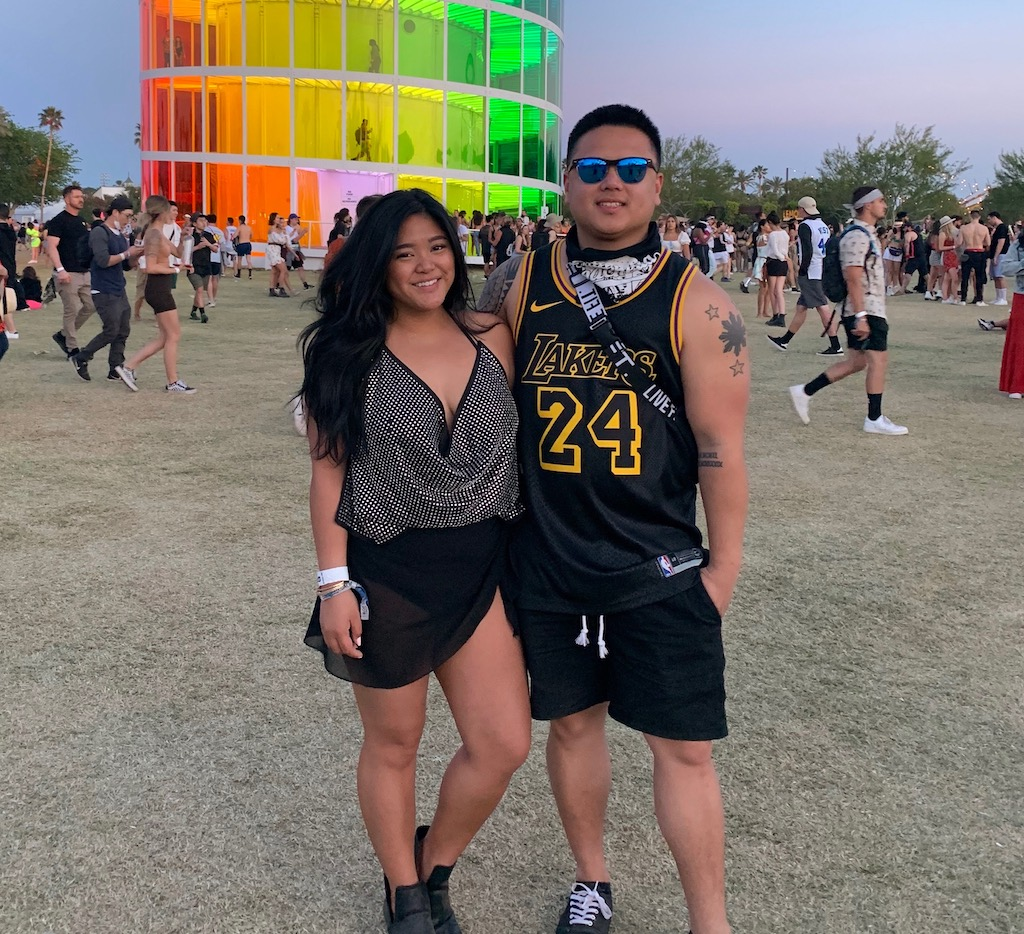
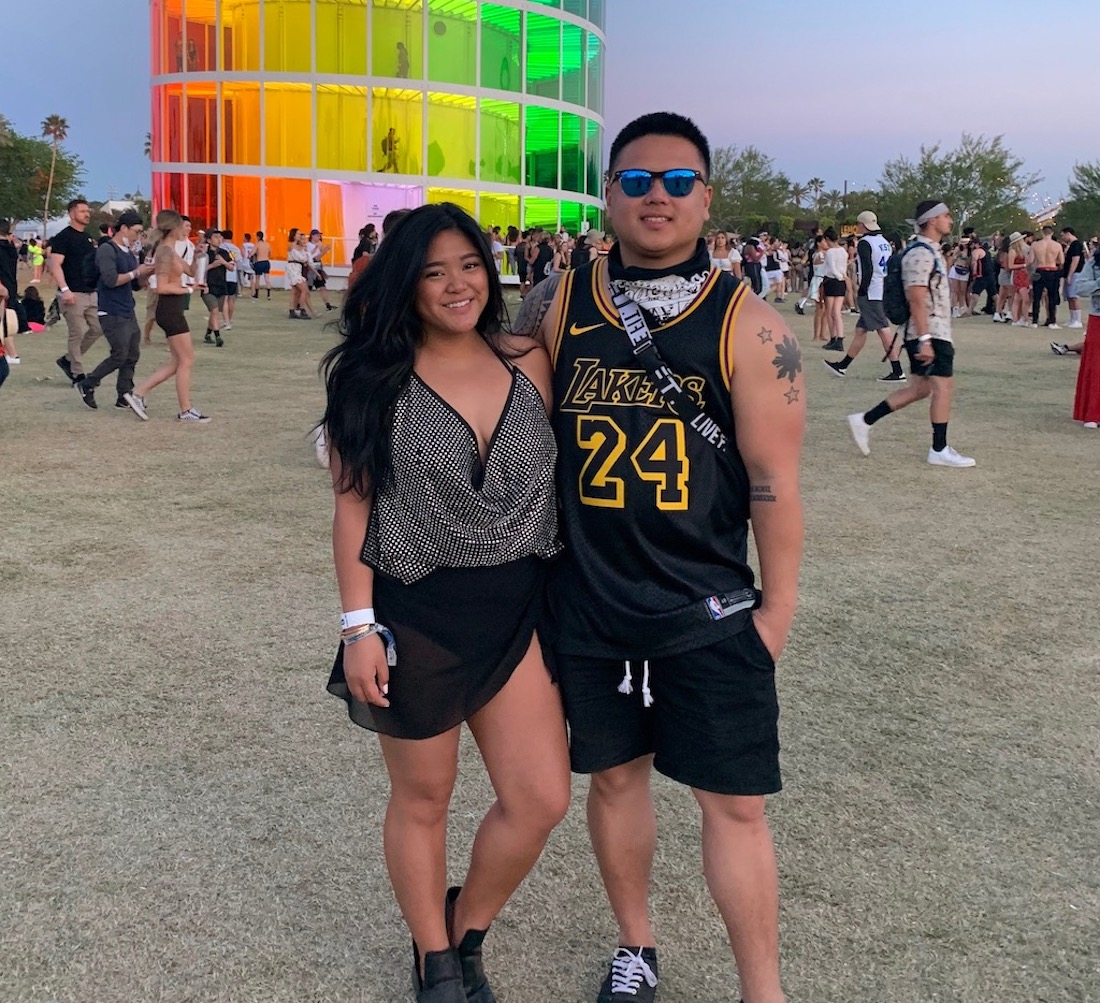
modified css to index.html and info.html

Changed region(s): [[0.3438, 0.3726, 0.5, 0.5899], [0.5312, 0.3726, 0.6562, 0.4347], [0.5625, 0.3105, 0.5938, 0.3415]]

diff --git a/info.html b/info.html
@@ -35,25 +35,24 @@
         </nav>
      </header>
     <main> 
-        <section class="container-fluid" id="details-info">
-            <div class="details-info-overlay"></div>
-            <div class="row">
-                <div class="col-md-6" id="details-left">
-                    <h2>Ceremony</h2>
-                    <p>Location: Saint Barnabus Church</p>
-                    <p>Starting Time: 12:00pm</p>
-                    <p>Address:</p>
-                    <iframe src="https://www.google.com/maps/embed?pb=!1m18!1m12!1m3!1d3314.2783013278104!2d-118.17885628384126!3d33.83093288066682!2m3!1f0!2f0!3f0!3m2!1i1024!2i768!4f13.1!3m3!1m2!1s0x80dd33a47e62fc93%3A0xdbdfed63e49f091c!2sSt.%20Barnabas%20Catholic%20Church!5e0!3m2!1sen!2sus!4v1579070690497!5m2!1sen!2sus" width="400" height="250" frameborder="0" style="border:0;" allowfullscreen=""></iframe>
-                </div>
-                <div class="col-md-6" id="details-right">
-                    <h2>Reception</h2>
-                    <p>Location: The Grand</p>
-                    <p>Starting Time: 6pm; End Time: 1am</p>
-                    <p>Address:</p>
-                    <iframe src="https://www.google.com/maps/embed?pb=!1m18!1m12!1m3!1d3315.3168005749235!2d-118.14949828384155!3d33.80413678067422!2m3!1f0!2f0!3f0!3m2!1i1024!2i768!4f13.1!3m3!1m2!1s0x80dd3187fe1d4d89%3A0x28bb151385838a33!2sThe%20Grand.%20Long%20Beach%20Events%20Center!5e0!3m2!1sen!2sus!4v1579071125621!5m2!1sen!2sus" width="400" height="250" frameborder="0" style="border:0;" allowfullscreen=""></iframe>
-                </div>
+        <div class="container-fluid" id="details-info">
+        </div>
+        <div class="row">
+            <div class="col-md-6" id="details-left">
+                <h2>Ceremony</h2>
+                <p>Location: Saint Barnabus Church</p>
+                <p>Starting Time: 12:00pm</p>
+                <p>Address:</p>
+                <iframe src="https://www.google.com/maps/embed?pb=!1m18!1m12!1m3!1d3314.2783013278104!2d-118.17885628384126!3d33.83093288066682!2m3!1f0!2f0!3f0!3m2!1i1024!2i768!4f13.1!3m3!1m2!1s0x80dd33a47e62fc93%3A0xdbdfed63e49f091c!2sSt.%20Barnabas%20Catholic%20Church!5e0!3m2!1sen!2sus!4v1579070690497!5m2!1sen!2sus" width="400" height="250" frameborder="0" style="border:0;" allowfullscreen=""></iframe>
             </div>
-        </section>
+            <div class="col-md-6" id="details-right">
+                <h2>Reception</h2>
+                <p>Location: The Grand</p>
+                <p>Starting Time: 6pm; End Time: 1am</p>
+                <p>Address:</p>
+                <iframe src="https://www.google.com/maps/embed?pb=!1m18!1m12!1m3!1d3315.3168005749235!2d-118.14949828384155!3d33.80413678067422!2m3!1f0!2f0!3f0!3m2!1i1024!2i768!4f13.1!3m3!1m2!1s0x80dd3187fe1d4d89%3A0x28bb151385838a33!2sThe%20Grand.%20Long%20Beach%20Events%20Center!5e0!3m2!1sen!2sus!4v1579071125621!5m2!1sen!2sus" width="400" height="250" frameborder="0" style="border:0;" allowfullscreen=""></iframe>
+            </div>
+        </div>
          <section class="gallery-container">
              <div class="text-center bridal-party-header">
                 <h2>Jose and Kristina's Bridal Party</h2>

diff --git a/assets/css/style.css b/assets/css/style.css
@@ -33,7 +33,6 @@ body {
     top: 0;
     bottom: 0;
     height: 45vh;
-    z-index: -10;
 }
 
 .story-section-2 {
@@ -46,17 +45,6 @@ body {
     top: 0;
     bottom: 0;
     height: 45vh;
-    z-index: -10;
-}
-
-#story-section-overlay {
-    position: absolute;
-    background-color: rgba(0, 0, 0, 0.5);
-    top: 0;
-    bottom: 0;
-    height: 100%;
-    width: 100%;
-    z-index: -5;
 }
 
 .story-p {
@@ -81,27 +69,16 @@ body {
     top: 0;
     bottom: 0;
     height: 45vh;
-    z-index: -10;
-}
-
-.details-info-overlay {
-    position: absolute;
-    background-color: rgba(0, 0, 0, 0.5);
-    top: 0;
-    bottom: 0;
-    height: 100%;
-    width: 100%;
-    z-index: -5;
 }
 
 #details-left {
-    color: #ffff;
+    color: #000000;
     font-weight: bold;  
     padding-top: 25px;
 }
 
 #details-right {
-    color: #ffff;
+    color: #000000;
     font-weight: bold;  
     padding-top: 25px;
 }

diff --git a/index.html b/index.html
@@ -39,7 +39,6 @@
     <main>
         <section>
             <div class="story-section">
-                <div id="story-section-overlay"></div>
             </div>           
         </section>
         <div class="story-p">
@@ -63,7 +62,6 @@
         </section>
         <section>
             <div class="story-section-2">
-                <div id="story-section-overlay"></div>
             </div>           
         </section>
         <div class="story-p">
